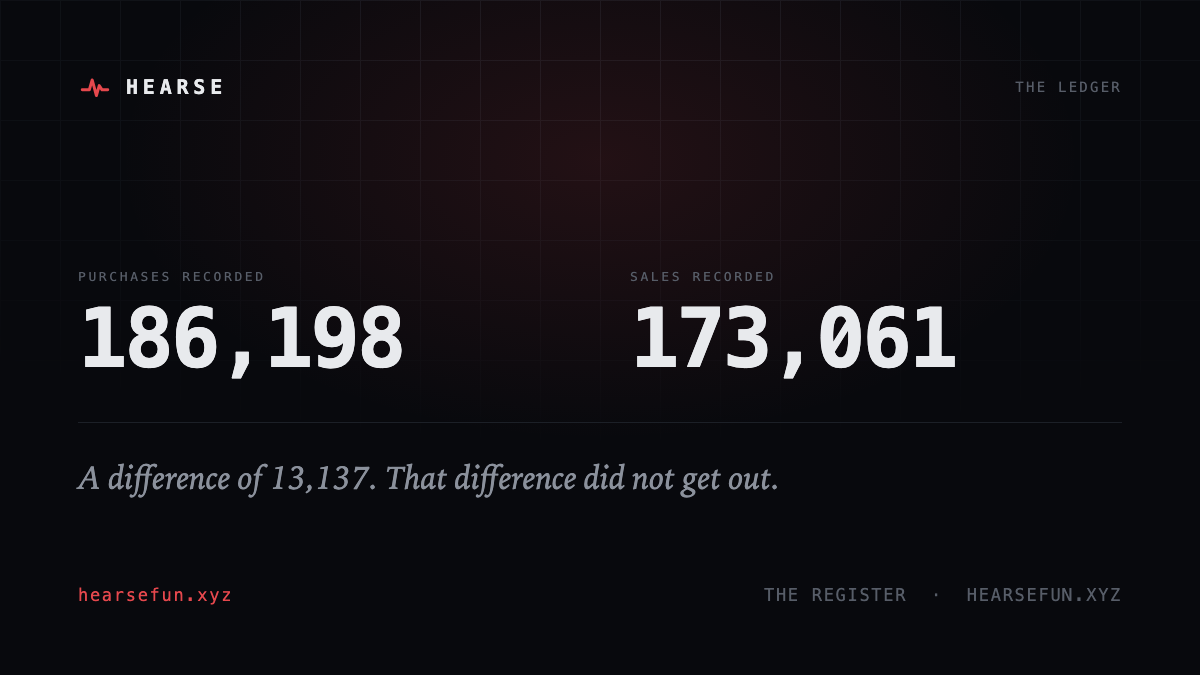
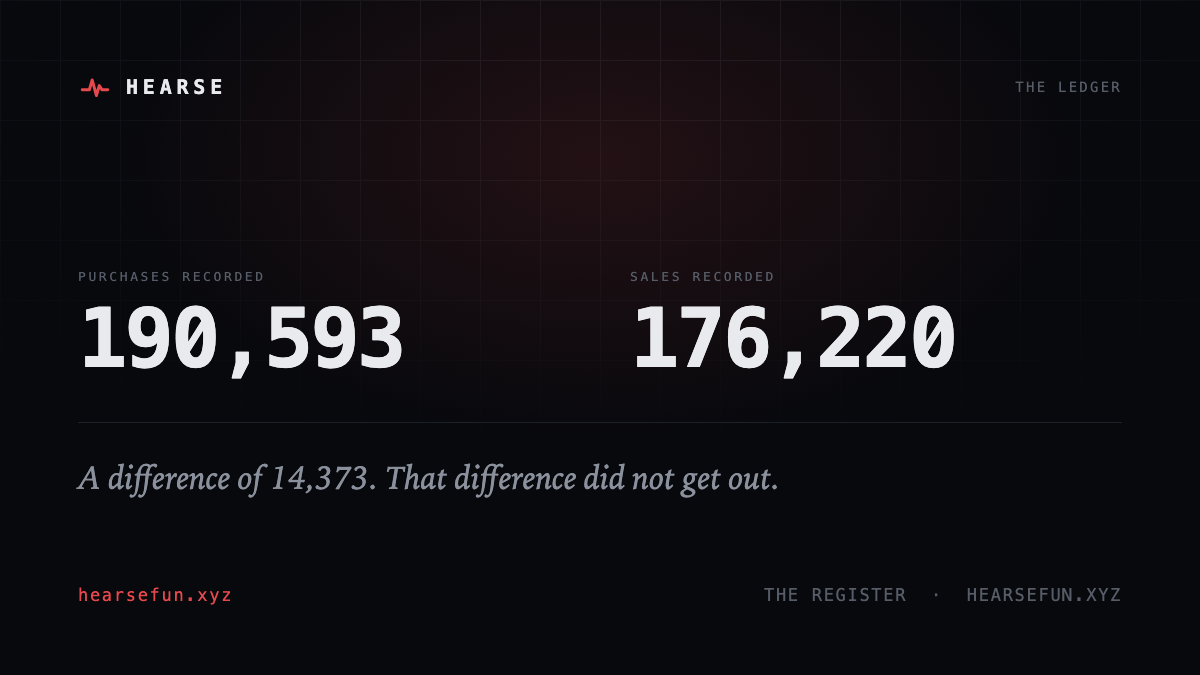
launch kit: add ./angka.sh so figures are refreshed before posting

diff --git a/launch-kit-hearse/index.html b/launch-kit-hearse/index.html
@@ -385,8 +385,8 @@ $HEARSE — 13 Aug, 14:00 UTC<button onclick="cp(this)">salin</button></div>
     orang lain</i> — ticker merekalah yang jadi bintangnya, bukan HEARSE.
     <br><br>
     Jadi X memakai angka <b>gabungan</b>, yang cuma HEARSE yang punya:
-    54 dimakamkan · $2.730.711 nilai puncak · 186.198 pembelian lawan 173.061 penjualan ·
-    umur median 7 jam 40 menit. Angka-angka itu jauh lebih besar daripada token mana
+    58 dimakamkan · $2.767.318 nilai puncak · 190.593 pembelian lawan 176.220 penjualan ·
+    umur median 6 jam 56 menit. Angka-angka itu jauh lebih besar daripada token mana
     pun satuan, tidak menguntungkan siapa-siapa, dan tidak bisa ditiru orang lain.
     <br><br>
     Waktu satu berkas besar terpaksa disinggung (tweet 09), namanya sengaja
@@ -543,7 +543,7 @@ const TWEETS = [
  img:"01-register-open.png",
  txt:`I keep a register of tokens that died on pump.fun.
 
-Fifty-four buried so far. Combined valuation at their peak: $2,730,711. Combined valuation now: nothing.
+Fifty-eight buried so far. Combined valuation at their peak: $2,767,318. Combined valuation now: nothing.
 
 Name one you held to zero. I'll write it a proper notice.`},
 
@@ -556,9 +556,9 @@ No opinions. The numbers are unkind enough on their own.`},
 
 {n:3, utc:"12 Aug · 14:30", wib:"12 Agu · 21:30", role:"angka — celah buku besar",
  img:"03-ledger-gap.png",
- txt:`186,198 purchases.
+ txt:`190,593 purchases.
 
-173,061 sales.
+176,220 sales.
 
 The difference did not get out.`},
 
@@ -572,7 +572,7 @@ hearsefun.xyz`},
 
 {n:5, utc:"12 Aug · 17:30", wib:"13 Agu · 00:30", role:"angka — umur",
  img:"05-lifespan.png",
- txt:`Median lifespan in my register: 7 hours, 40 minutes.
+ txt:`Median lifespan in my register: 6 hours, 56 minutes.
 
 The shortest lived four minutes.
 
@@ -587,7 +587,7 @@ No charge. This is what I do.`},
 
 {n:7, utc:"12 Aug · 20:30", wib:"13 Agu · 03:30", role:"angka besar — bukti skala",
  img:"07-value-buried.png",
- txt:`$2,730,711 in peak valuation currently sits in my register.
+ txt:`$2,767,318 in peak valuation currently sits in my register.
 
 Present value of the lot: zero.
 
@@ -630,10 +630,10 @@ It doesn't unlock anything. The register is free and stays free. It's a way to h
 
 {n:13, utc:"13 Aug · 08:30", wib:"13 Agu · 15:30", role:"angka — sebab kematian",
  img:"13-causes.png",
- txt:`Cause of death, across all fifty-four:
+ txt:`Cause of death, across all fifty-eight:
 
 Liquidity removed entirely — 30
-Liquidity fell below survivable levels — 24
+Liquidity fell below survivable levels — 28
 
 There is no third category. Nothing here has ever died of old age.`},
 
